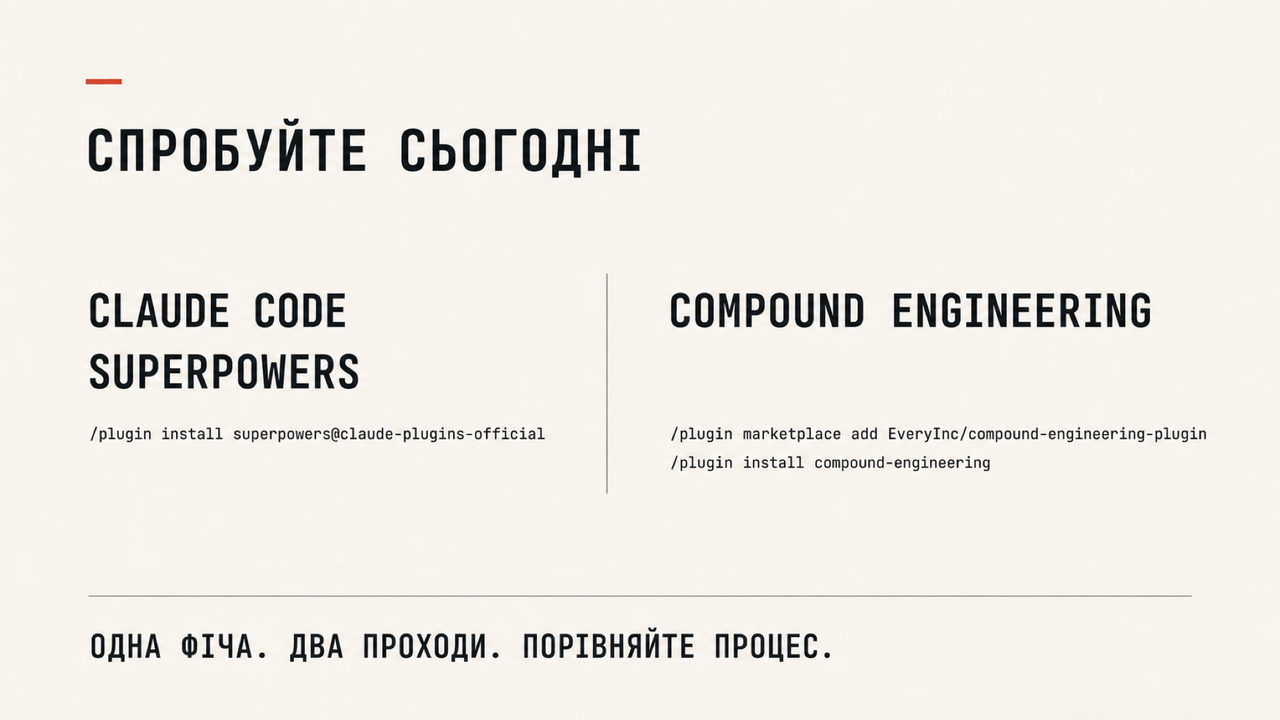
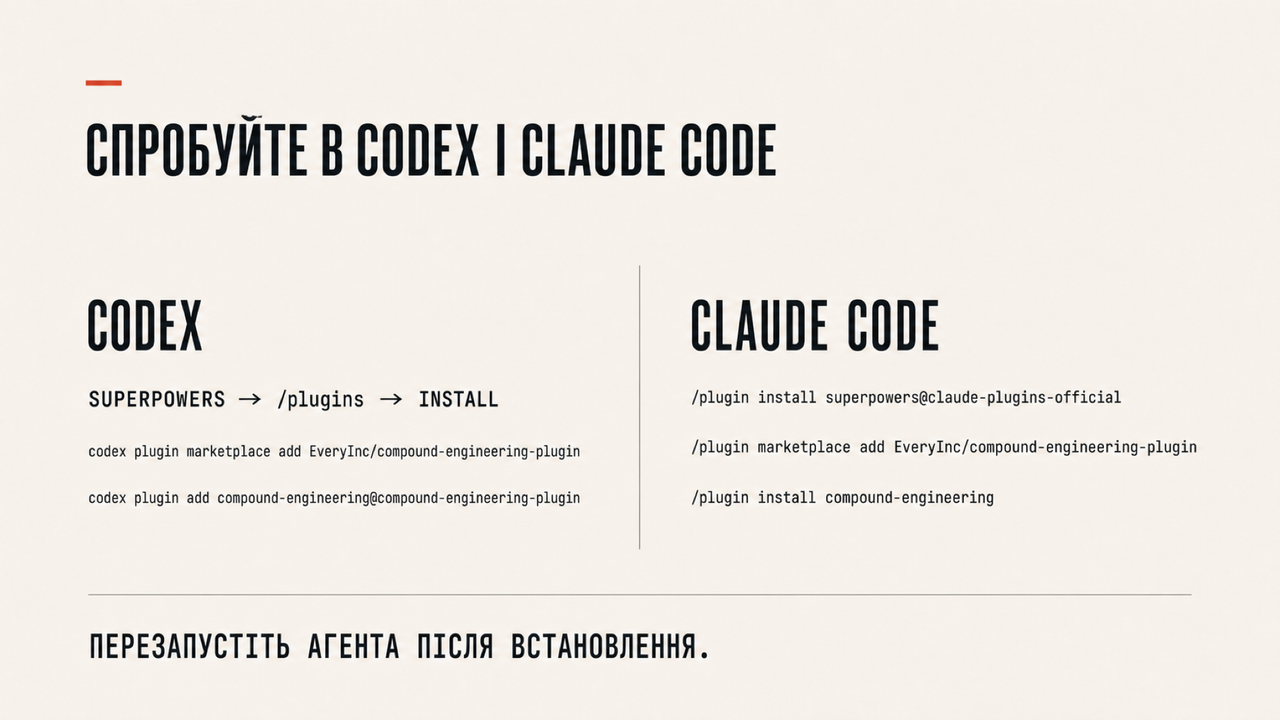
chore

diff --git a/pilots/02-superpowers-vs-compound-engineering/evaluation/review.md b/pilots/02-superpowers-vs-compound-engineering/evaluation/review.md
@@ -91,30 +91,30 @@ All three normalized candidates for every slide were inspected together at `1920
 ## Slide 07 — Discipline principle
 
 - Candidates: `07-discipline-principle-v1.png`, `07-discipline-principle-v2.png`, `07-discipline-principle-v3.png`.
-- Rejected v1: the coral rectangle isolates only the final phrase and creates a harder right edge.
-- Rejected v2: the angled Signal plane is more expressive but less restrained and approaches poster-like composition.
+- Rejected v1: the first line and coral plane occupy more width, making the proposition feel heavier after the longer terminology replacement.
+- Rejected v2: the second line and Signal plane sit lower and wider, reducing the useful negative space around the Level C statement.
 - **Selected:** `07-discipline-principle-v3.png`
-- Selection rationale: the strongest Level C culmination, with one broad Signal plane, exact typographic proposition, and ample negative space.
-- Exact-copy review: pass. All three manifest strings appear once; no quote marks or attribution.
+- Selection rationale: the strongest Level C culmination after the terminology correction, with one restrained Signal plane, exact typographic proposition, and the best balance of scale and negative space.
+- Exact-copy review: pass. `ДИСЦИПЛІНА НЕ В ІНСТРУМЕНТІ.` and `ІНСТРУМЕНТ ЛИШЕ РОБИТЬ ЇЇ ДЕФОЛТОМ.` each appear once; the third line is unchanged; no occurrence of `ТУЛЗА`, quote marks, attribution, or extra text remains.
 - Dimensions/color mode: pass, `1920×1080` RGB PNG. Preview: `1280×720` RGB PNG.
 - Clipping/contrast/reading order: pass. Visual mechanism and expression C: pass.
 - Removable-element check: pass; the coral plane has the single semantic role of making disciplined behavior the default.
[4 lines of base64/hex data omitted]
 
 ## Slide 08 — Try today
 
 - Candidates: `08-try-today-v1.png`, `08-try-today-v2.png`, `08-try-today-v3.png`.
-- Rejected v1: the headline and plugin titles are heavier than needed for an expression A CTA.
-- Rejected v2: the headline is too quiet relative to the large plugin titles and the bottom CTA.
+- Rejected v1: the oversized headline compresses the two platform instruction fields and weakens expression-A calmness.
+- Rejected v2: the platform headings are too dominant relative to the commands, making the installation sequence slower to scan.
 - **Selected:** `08-try-today-v3.png`
-- Selection rationale: the clearest hierarchy from CTA to two installation fields, exact command typography, and one quiet start Signal.
-- Exact-copy review: pass. Every slash, hyphen, at-sign, case choice, and repository name matches the manifest; no terminal chrome or extra text.
+- Selection rationale: the clearest balance between Codex and Claude Code, the widest readable command measures, exact technical typography, and one quiet start Signal.
+- Exact-copy review: pass. Both platform headings, all six installation instructions, the headline, and the restart CTA match the manifest; every slash, hyphen, at-sign, arrow, case choice, and repository name is exact; no terminal chrome or extra text.
 - Dimensions/color mode: pass, `1920×1080` RGB PNG. Preview: `1280×720` RGB PNG.
 - Clipping/contrast/reading order: pass. Visual mechanism and expression A: pass.
-- Removable-element check: pass; the divider separates installation paths and the baseline joins them into one comparison exercise.
[2 lines of base64/hex data omitted]
+- Removable-element check: pass; the divider separates the platform paths and the baseline joins them into one setup action.
[2 lines of base64/hex data omitted]
 
 ## Series-level review
 

diff --git a/STATUS.md b/STATUS.md
@@ -9,7 +9,7 @@
 
 The root `README.md` now presents CSDL as a product and design language before repository operations. It introduces the problem, benefits, visual grammar, system architecture, Prompt DSL example, applied evidence, creation workflow, and status in English without changing any versioned contract or accepted raster.
 
-Pilot 02 is complete under `pilots/02-superpowers-vs-compound-engineering/`. The additive eight-slide Ukrainian series compares Superpowers and Compound Engineering as orthogonal disciplines for within-task execution and between-task knowledge capture; its central comparison uses the user-approved three-row scope of value, emphasis, and risk. It includes 24 reviewed GPT Image 2 candidates, eight exact-copy `1920×1080` RGB canonicals, eight `1280×720` previews, one centered `3840×2160` contact sheet, current primary-source fact mapping, Prompt DSL v0.5 packages, hashes, selection evidence, and passing rubric scores. The work does not alter Pilot 01, any previously accepted raster, Prompt DSL v0.5, the fifteen-component vocabulary, the 23-recipe library, or the completed Milestone 7 publication contract.
+Pilot 02 is complete under `pilots/02-superpowers-vs-compound-engineering/`. The additive eight-slide Ukrainian series compares Superpowers and Compound Engineering as orthogonal disciplines for within-task execution and between-task knowledge capture; its central comparison uses the user-approved three-row scope of value, emphasis, and risk, its culmination uses the standard Ukrainian term `інструмент`, and its closing slide now gives current installation paths for both Codex and Claude Code. It includes 24 reviewed GPT Image 2 candidates, eight exact-copy `1920×1080` RGB canonicals, eight `1280×720` previews, one centered `3840×2160` contact sheet, current primary-source fact mapping, Prompt DSL v0.5 packages, hashes, selection evidence, and passing rubric scores. The work does not alter Pilot 01, any previously accepted raster, Prompt DSL v0.5, the fifteen-component vocabulary, the 23-recipe library, or the completed Milestone 7 publication contract.
 
 An additive seven-slide English demo infographic is available under `docs/demo-infographic/`. It translates the original five-slide explanatory sequence, adds a Recipes bridge and a human/agent parity slide, and includes exact-copy prompts, 21-candidate selection evidence, seven `1920×1080` RGB PNG files, and one `3840×2160` contact sheet. It is documentation-only, does not begin Milestone 8, and does not modify any accepted raster evidence or versioned CSDL contract.
 

diff --git a/CHANGELOG.md b/CHANGELOG.md
@@ -2,6 +2,8 @@
 
 ## Unreleased
 
+- Reworked Pilot 02 Slide 08 into parallel Codex and Claude Code installation paths for Superpowers and Compound Engineering, regenerated and reviewed three exact-copy candidates, and refreshed its canonical, source snapshot, hashes, and review evidence.
+- Replaced both colloquial `тулза` occurrences on Pilot 02 Slide 07 with grammatically correct forms of `інструмент`, regenerated and reviewed three exact-copy Level C candidates, and rebuilt the canonical, preview, contact sheet, hashes, and review evidence.
 - Simplified Pilot 02 Slide 05 at user request by removing the origin and scale rows, regenerating and reviewing three exact-copy candidates, promoting the cleanest three-row comparison, and rebuilding its preview, contact sheet, hashes, and review evidence.
 - Reframed the root README as an English product introduction to CSDL, with its problem, benefits, visual grammar, system layers, Prompt DSL example, applied visual evidence, creation workflow, validation entrypoint, and current release/licensing boundary.
 - Added Pilot 02, an eight-slide Ukrainian `Superpowers vs Compound Engineering` CSDL series with a user-approved `A, A, B, A, B, A, C, A` rhythm, primary-source fact corrections, Prompt DSL v0.5 packages, 24 reviewed GPT Image 2 candidates, eight exact-copy `1920×1080` RGB canonicals, landscape previews, a centered `3840×2160` contact sheet, persisted selection/hashing evidence, and passing rubric gates; no accepted prior raster or versioned CSDL contract was changed.

diff --git a/pilots/02-superpowers-vs-compound-engineering/sources.md b/pilots/02-superpowers-vs-compound-engineering/sources.md
@@ -30,6 +30,14 @@ This file separates primary-source facts, user-approved editorial premises, and 
    <https://every.to/guides/compound-engineering-gets-an-upgrade>  
    Supports the evolution from the four-step core to the expanded workflow and identifies Compound as the return arrow that makes later work easier.
 
+## Installation snapshot used on Slide 08
+
+- **Codex / Superpowers:** open `/plugins`, search for `superpowers`, and choose Install Plugin, as documented by the locally installed Superpowers v6.1.1 README.
+- **Codex / Compound Engineering:** `codex plugin marketplace add EveryInc/compound-engineering-plugin`, then `codex plugin add compound-engineering@compound-engineering-plugin`, as documented by the locally installed Compound Engineering v3.19.0 README.
+- **Claude Code / Superpowers:** `/plugin install superpowers@claude-plugins-official`.
+- **Claude Code / Compound Engineering:** `/plugin marketplace add EveryInc/compound-engineering-plugin`, then `/plugin install compound-engineering`.
+- Restart Codex after installing Compound Engineering; the slide states the restart step once as a safe shared completion cue.
+
 ## User-approved editorial premises
 
 - Agents can already generate code faster than the intended audience; process is the practical bottleneck.
